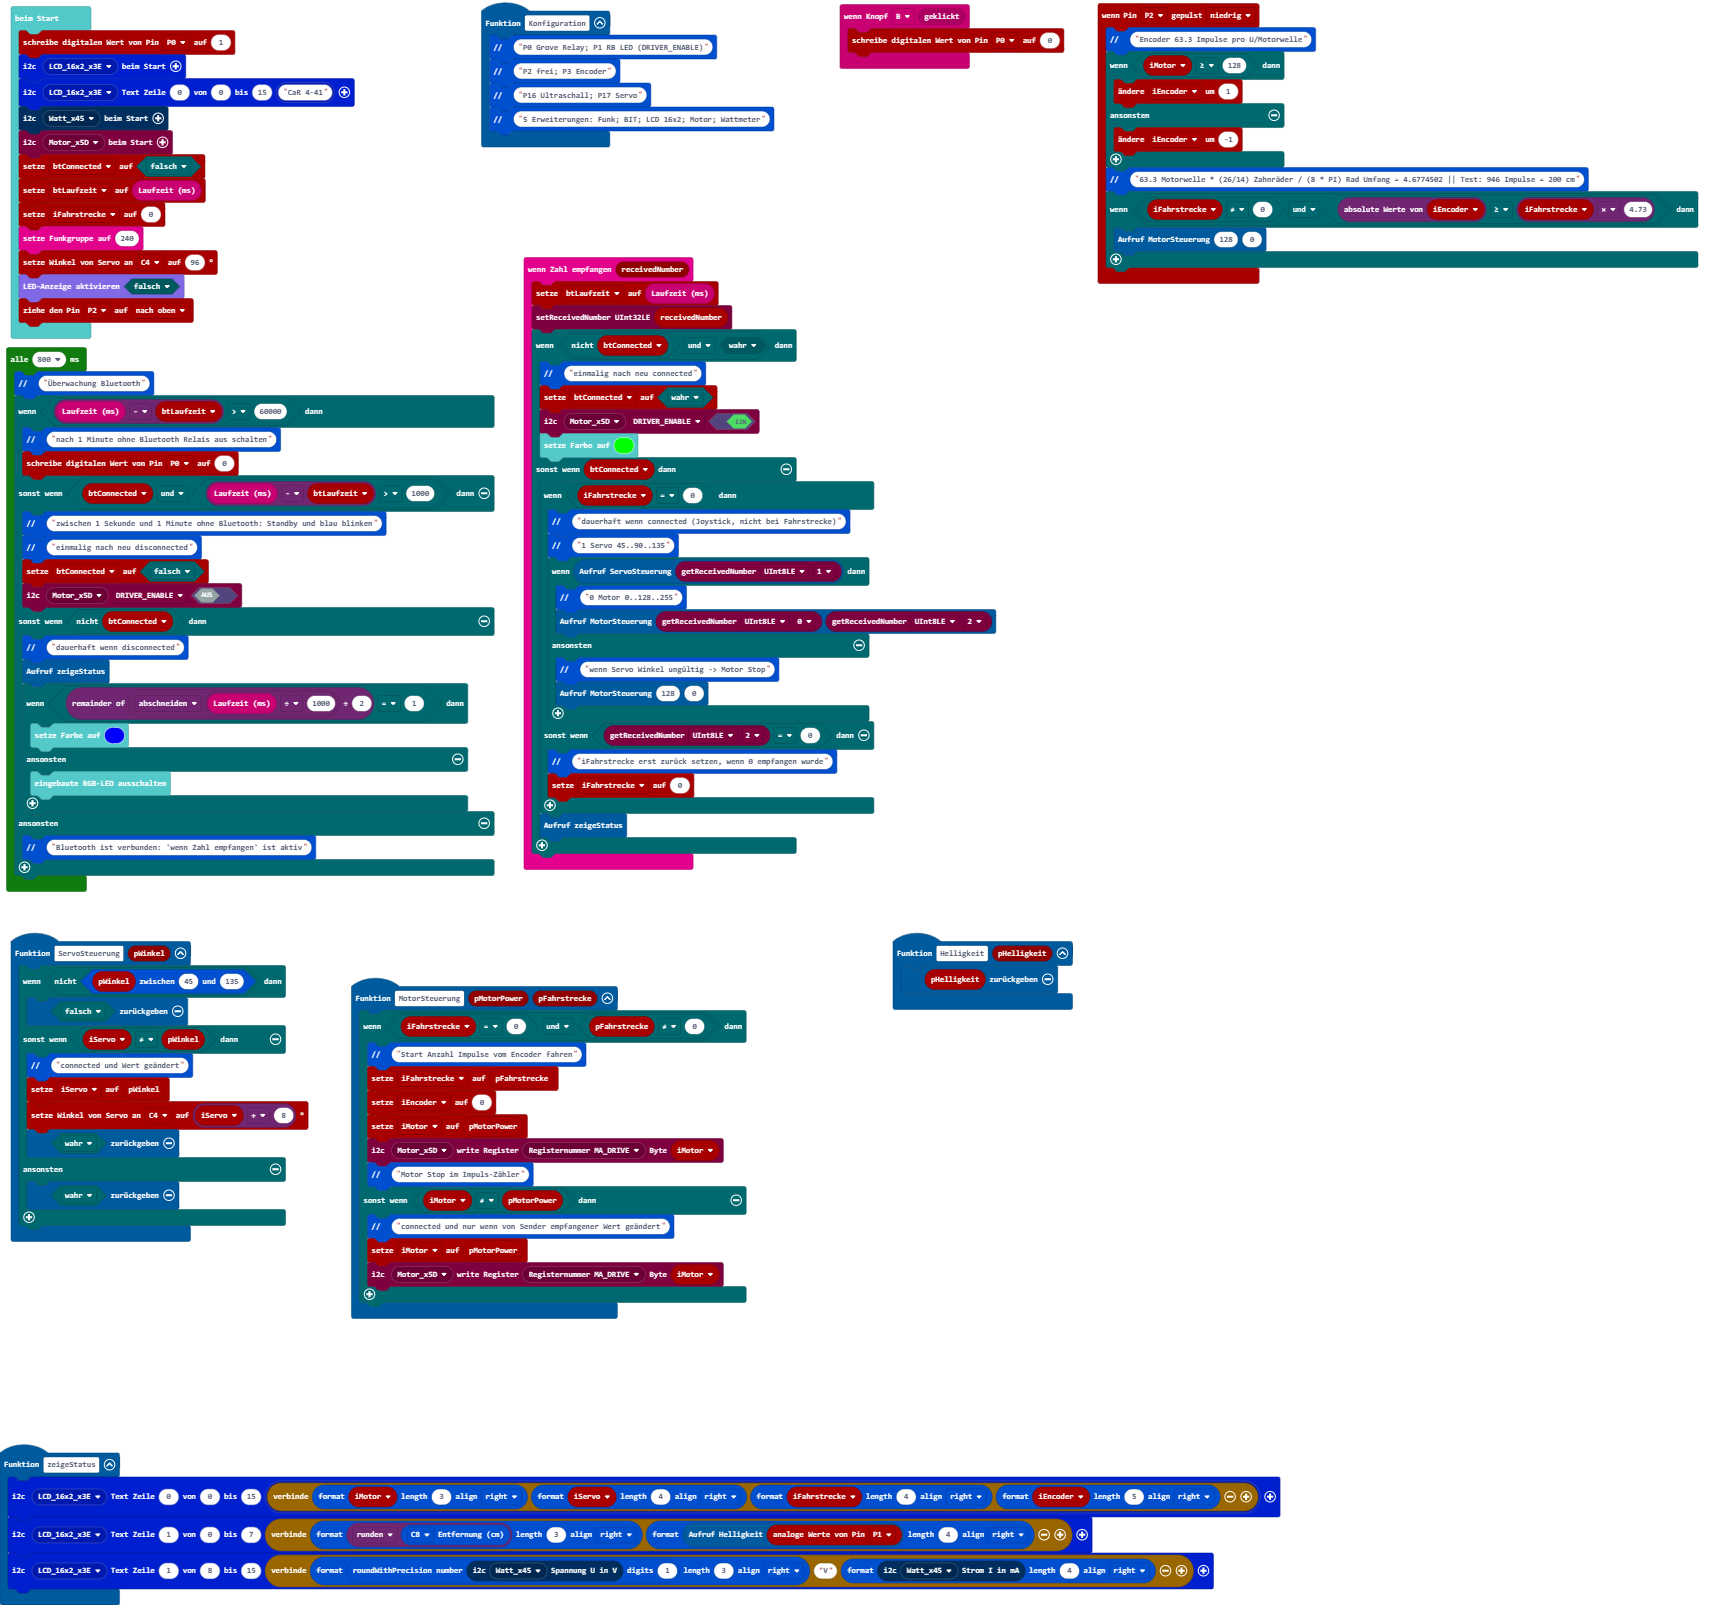
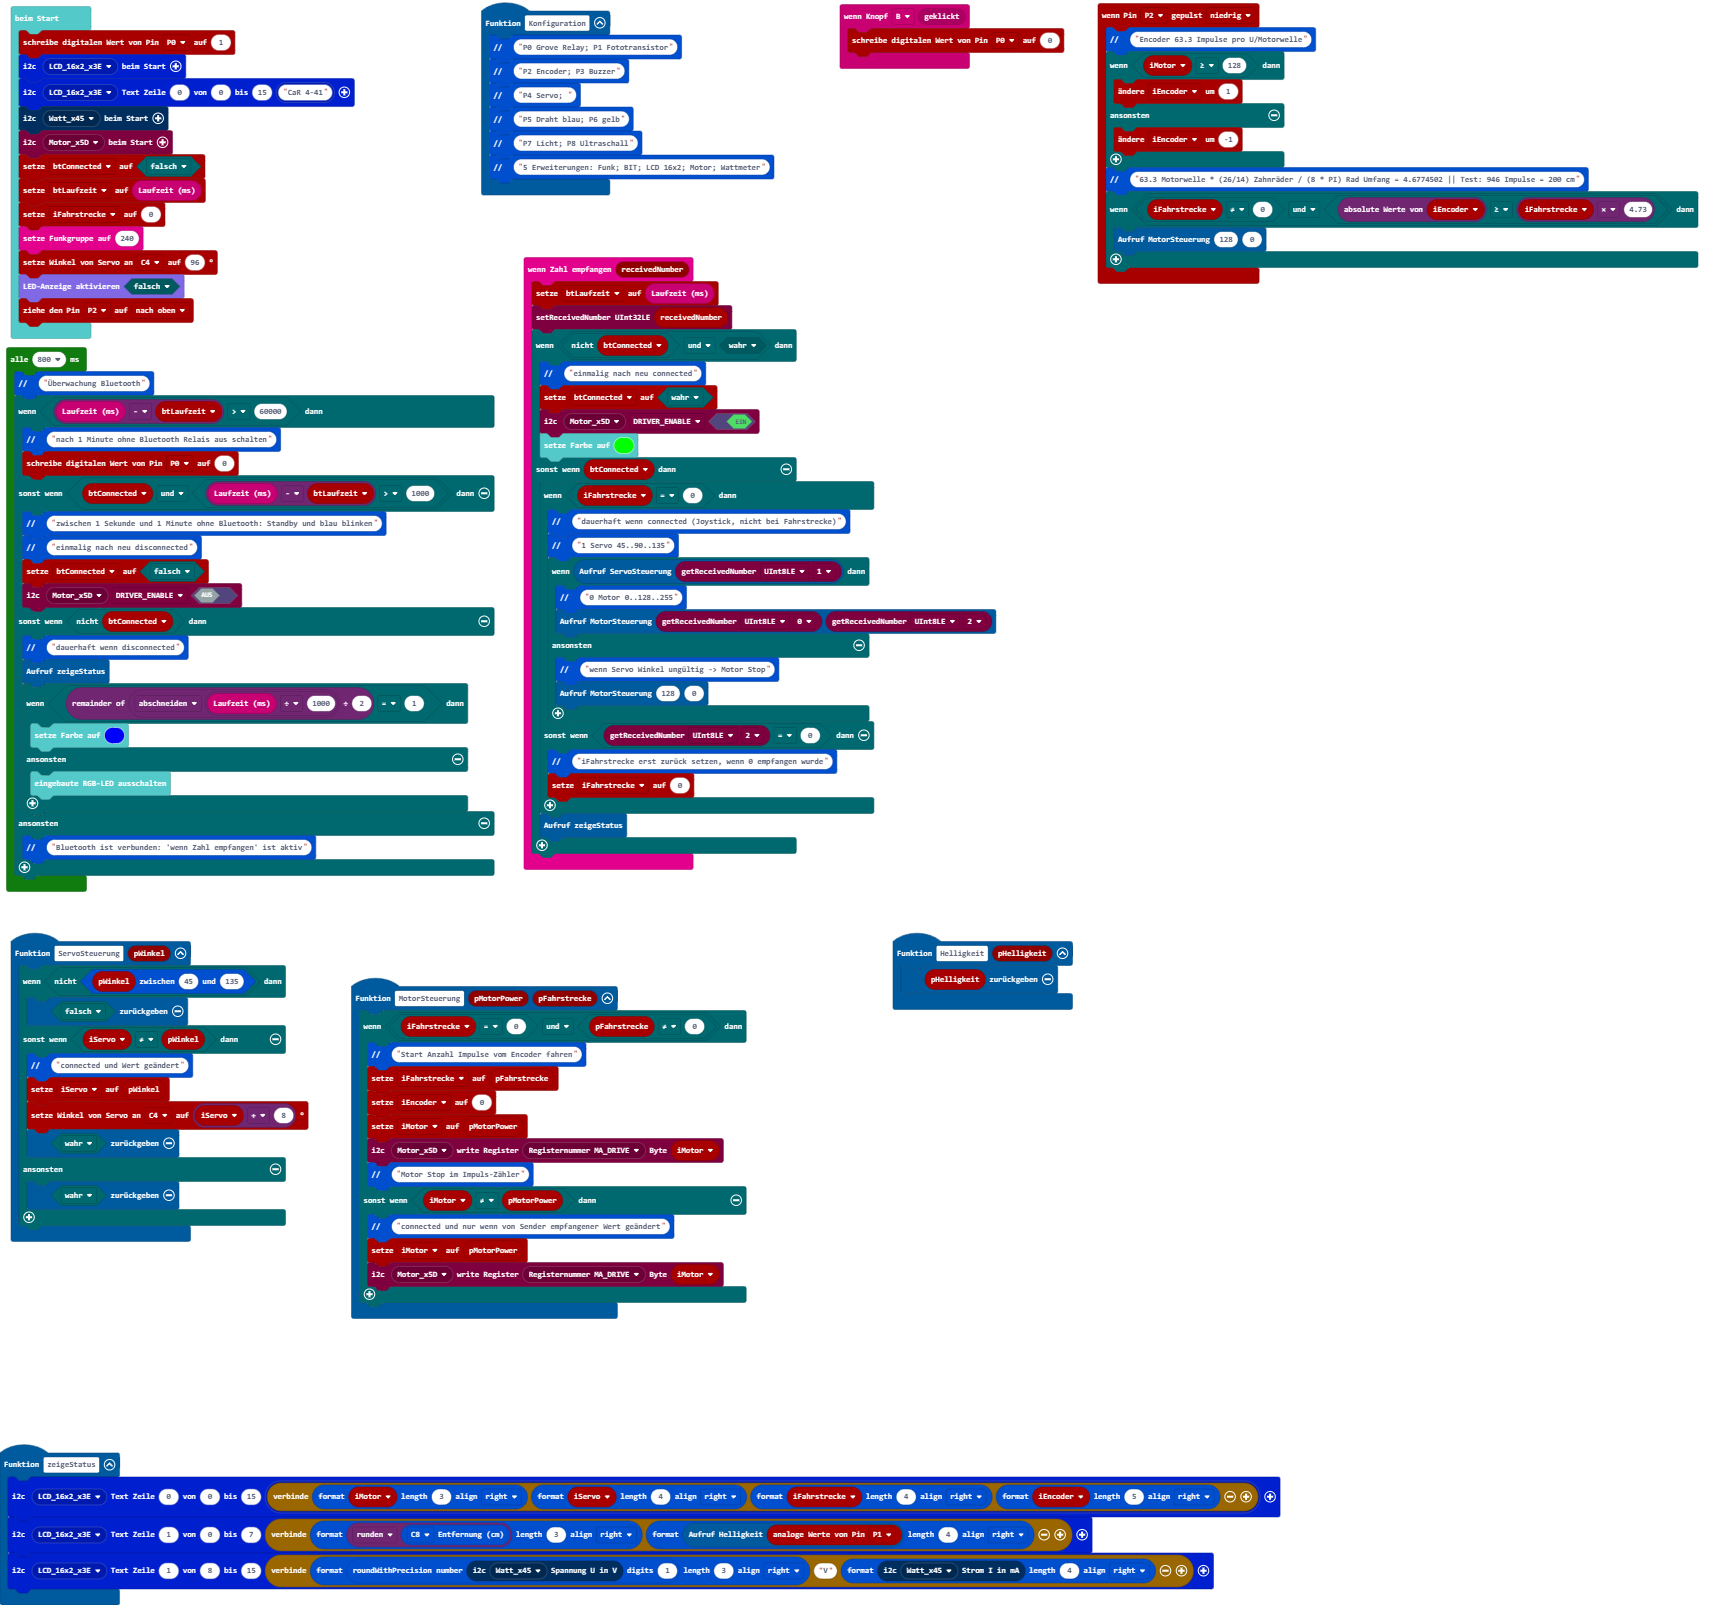
Aktualisiere main.blocks, main.ts

Changed region(s): [[0.2767, 0.0, 0.4611, 0.1246]]

diff --git a/main.ts b/main.ts
@@ -62,9 +62,11 @@ function Helligkeit (pHelligkeit: number) {
     return pHelligkeit
 }
 function Konfiguration () {
-    bit.comment("P0 Grove Relay; P1 RB LED (DRIVER_ENABLE)")
-    bit.comment("P2 frei; P3 Encoder")
-    bit.comment("P16 Ultraschall; P17 Servo")
+    bit.comment("P0 Grove Relay; P1 Fototransistor")
+    bit.comment("P2 Encoder; P3 Buzzer")
+    bit.comment("P4 Servo; ")
+    bit.comment("P5 Draht blau; P6 gelb")
+    bit.comment("P7 Licht; P8 Ultraschall")
     bit.comment("5 Erweiterungen: Funk; BIT; LCD 16x2; Motor; Wattmeter")
 }
 function ServoSteuerung (pWinkel: number) {
